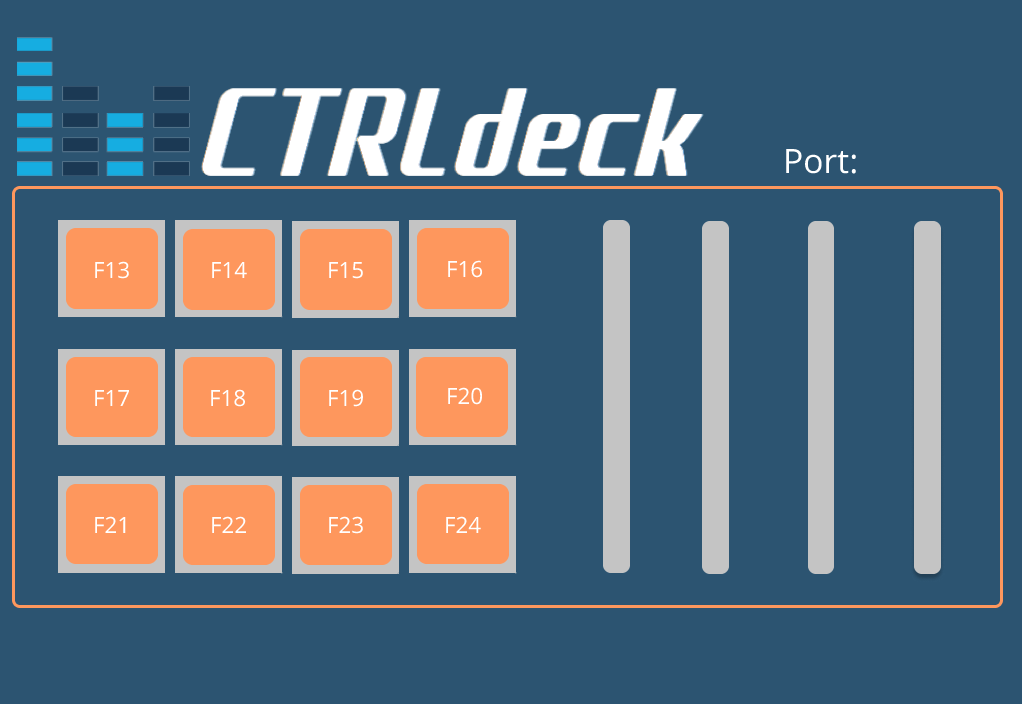
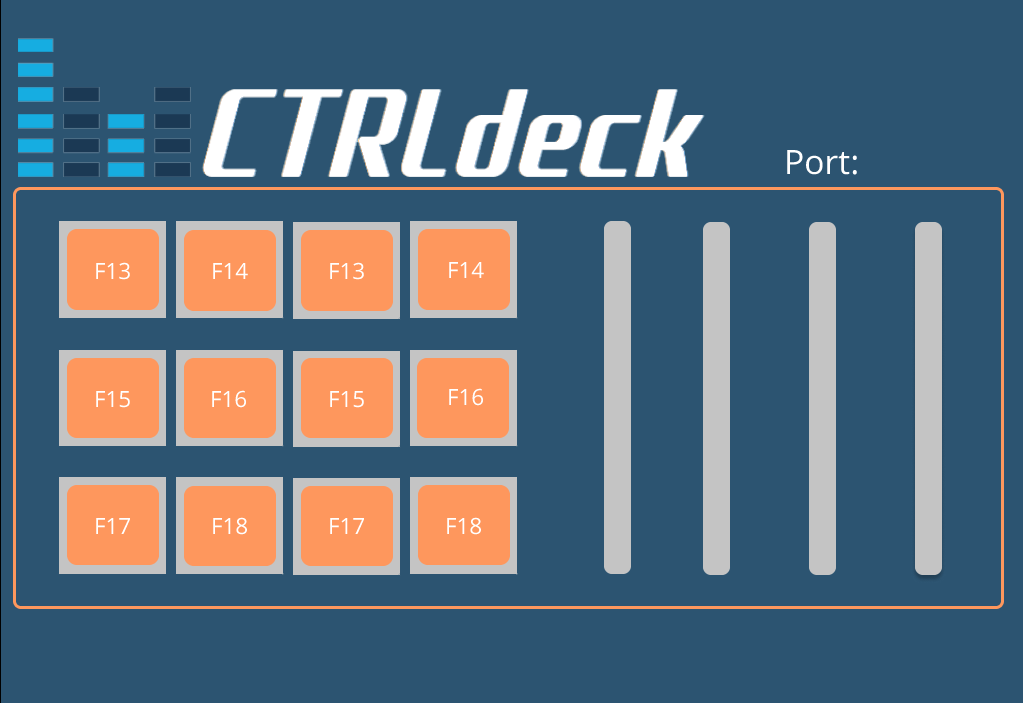
updated gui elements

diff --git a/inc/serialValuetoVolume.py b/inc/serialValuetoVolume.py
@@ -6,7 +6,6 @@ from pycaw.pycaw import DEVICE_STATE, AudioUtilities, ISimpleAudioVolume, IAudio
 from ctypes import POINTER, cast
 from comtypes import CLSCTX_ALL 
 import logging
-from numpy import interp
 
 # Create global variables. I'm sure there's a more efficient way to handle all of this.   
 chosenPort = str()
@@ -263,7 +262,6 @@ def getValues():
                     for i in range(numSliders):
                         if sliders[i] != previousSliders[i]:
                             previousSliders[i] = sliders[i]
-                            faders[i] = interp(sliders[i], [.00,1.00], [540, 225])
                             volumeSlider(i+1)
                         else:
                             pass

diff --git a/CTRLDeck_12x4.py b/CTRLDeck_12x4.py
@@ -9,7 +9,6 @@ import inc.serialValuetoVolume as serialValuetoVolume
 import threading
 import pythoncom
 import logging
-import time
 
 # Create global variable for arduino port. Can't remember if it is still needed
 chosenPort = str()
@@ -280,9 +279,9 @@ sessionOptions = ["master", "chrome.exe", "firefox.exe", "discord.exe", "microph
 
 # Store audio sessions for 4 sliders
 SliderDropdownsXPositions = [573, 680, 783, 890]
-SliderDropdownsYPosition = 609
-faderKnobXPos = [589, 688, 793, 900]
-faderKnobYPos = serialValuetoVolume.faders
+SliderDropdownsYPosition = 613
+faderKnobXPos = [590, 689, 795, 901]
+faderKnobYPos = [318, 450, 265, 500]
 
 sliders = []
 for i in range (numSliders):
